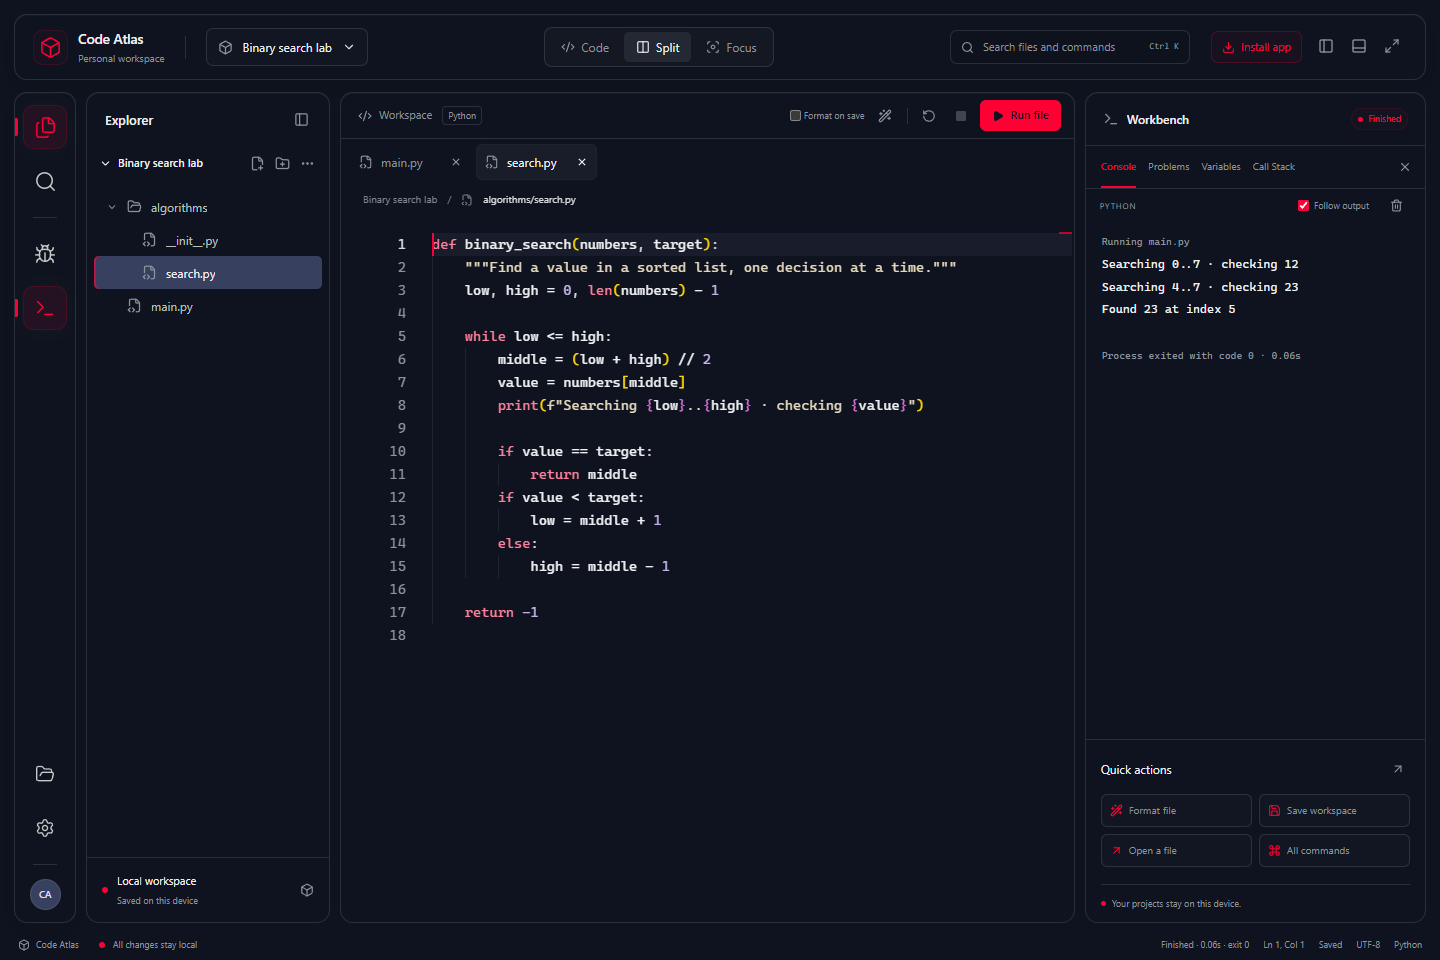
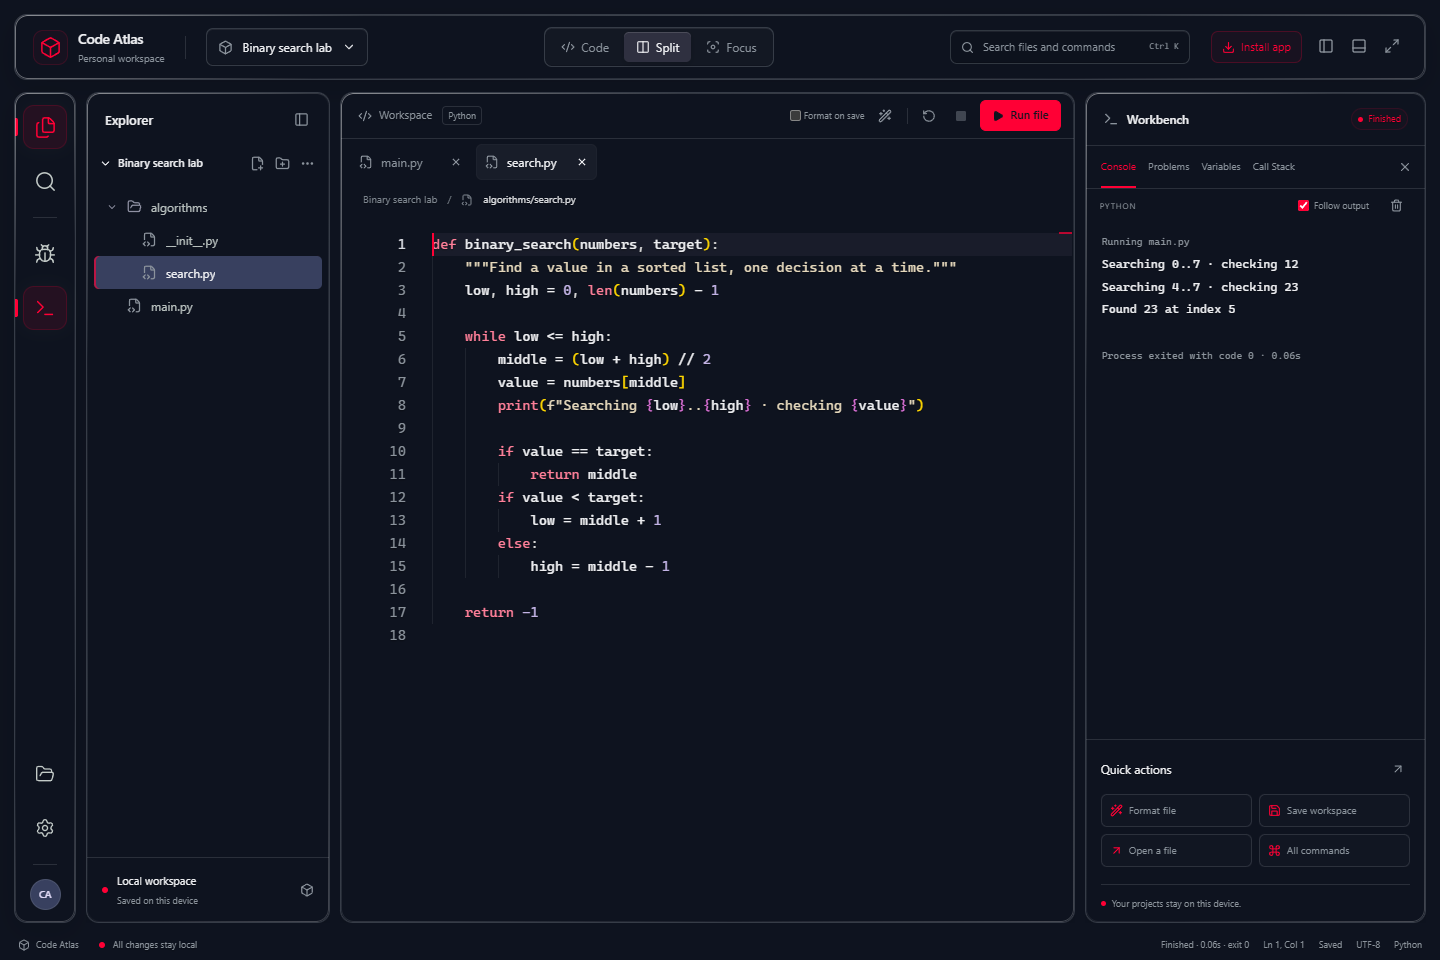
feat(glass): add native glass appearance and desktop shortcut

diff --git a/src/features/desktop/liquid-glass.css b/src/features/desktop/liquid-glass.css
@@ -1,0 +1,141 @@
+/* Reflections belong to the rim; background alpha remains controlled by the slider. */
+:root[data-theme='light'] {
+  color-scheme: light;
+}
+:root[data-glass='true'] :is(.titlebar, .activitybar, .sidebar, .editor-card, .output-card) {
+  position: relative;
+  border-color: #8b939c52;
+  box-shadow:
+    inset 0 1px 0 #ffffff20,
+    inset 0 -1px 0 #ffffff08,
+    0 8px 28px rgb(0 0 0 / calc(var(--workspace-opacity) * 0.12));
+}
+:root[data-glass='true']
+  :is(.titlebar, .activitybar, .sidebar, .editor-card, .output-card)::before {
+  content: '';
+  position: absolute;
+  inset: 0;
+  padding: 1px;
+  border-radius: inherit;
+  pointer-events: none;
+  z-index: 2;
+  background: linear-gradient(
+    130deg,
+    #ffffff73 0%,
+    #ffffff08 24%,
+    #8b939c38 53%,
+    #ffffff05 76%,
+    #ffffff38 100%
+  );
+  mask:
+    linear-gradient(#fff 0 0) content-box,
+    linear-gradient(#fff 0 0);
+  mask-composite: exclude;
+}
+:root[data-glass='true'] :is(.titlebar, .activitybar) {
+  backdrop-filter: blur(16px) saturate(1.15);
+}
+:root[data-glass='true'] :is(.workspace-title, .layout-switch, .command-trigger) {
+  border-color: #8b939c4a;
+  box-shadow:
+    inset 0 1px 0 #ffffff12,
+    inset 0 -1px 0 #00000020;
+}
+:root[data-glass='true'] .layout-switch button[aria-pressed='true'] {
+  background: #59546c66;
+  box-shadow:
+    inset 0 1px 0 #ffffff22,
+    0 2px 7px #00000024;
+}
+:root[data-glass='true'] .workspace {
+  text-shadow: 0 1px 2px #00000070;
+}
+:root[data-theme='light'][data-glass='true'] .workspace {
+  text-shadow: none;
+}
+:root[data-desktop='true'] .settings-dialog::backdrop {
+  background: transparent;
+  backdrop-filter: none;
+}
+.glass-setting {
+  display: flex;
+  align-items: center;
+  gap: 16px;
+  padding: 17px 0;
+  border-bottom: 1px solid var(--border);
+  cursor: pointer;
+  position: relative;
+}
+.glass-setting-copy {
+  flex: 1;
+}
+.glass-setting strong {
+  display: flex;
+  align-items: center;
+  gap: 7px;
+  font-size: 12px;
+  font-weight: 600;
+}
+.glass-setting strong svg {
+  color: var(--muted);
+}
+.glass-setting small {
+  display: block;
+  color: var(--muted);
+  font-size: 10px;
+  line-height: 1.7;
+  margin-top: 5px;
+  max-width: 320px;
+}
+.glass-setting input {
+  position: absolute;
+  right: 0;
+  width: 44px;
+  height: 32px;
+  margin: 0;
+  opacity: 0;
+  cursor: pointer;
+}
+.glass-switch-track {
+  width: 38px;
+  height: 22px;
+  padding: 3px;
+  border-radius: 20px;
+  background: var(--raised);
+  border: 1px solid var(--border);
+  pointer-events: none;
+}
+.glass-switch-track > span {
+  display: block;
+  width: 14px;
+  height: 14px;
+  border-radius: 50%;
+  background: var(--text);
+  transition: transform 160ms ease;
+}
+.glass-setting input:checked + .glass-switch-track {
+  background: var(--accent);
+  border-color: var(--accent);
+}
+.glass-setting input:checked + .glass-switch-track > span {
+  transform: translateX(16px);
+  background: var(--on-accent);
+}
+.glass-setting input:focus-visible + .glass-switch-track {
+  outline: 2px solid var(--text);
+  outline-offset: 3px;
+}
+@media (prefers-reduced-motion: reduce) {
+  .glass-switch-track > span {
+    transition: none;
+  }
+}
+@media (prefers-reduced-transparency: reduce) {
+  :root[data-glass='true'] :is(.titlebar, .activitybar) {
+    backdrop-filter: none;
+  }
+  :root[data-glass='true']
+    :is(.titlebar, .activitybar, .sidebar, .editor-card, .output-card)::before {
+    background: none;
+  }
+}

diff --git a/src/features/settings/SettingsDialog.tsx b/src/features/settings/SettingsDialog.tsx
@@ -1,5 +1,5 @@
 import { useEffect, useRef } from 'react';
-import { X, SlidersHorizontal } from 'lucide-react';
+import { X, SlidersHorizontal, Sparkles } from 'lucide-react';
 import { useSettings } from './store';
 import { useUI } from '../../shared/ui-store';
 import { IconButton } from '../../shared/IconButton';
@@ -112,6 +112,26 @@ export function SettingsDialog() {
             : 'To see your desktop through the background, open the Code Atlas desktop app. Browser windows only change their in-page backgrounds.'}
         </p>
       </div>
+      <label className="glass-setting" htmlFor="glass-effect">
+        <span className="glass-setting-copy">
+          <strong id="glass-effect-label">
+            <Sparkles size={15} />
+            Liquid glass
+          </strong>
+          <small>Reflective edges and softer panels. Lower transparency for more contrast.</small>
+        </span>
+        <input
+          id="glass-effect"
+          type="checkbox"
+          role="switch"
+          aria-labelledby="glass-effect-label"
+          checked={settings.glassEffect}
+          onChange={(event) => settings.setSetting('glassEffect', event.target.checked)}
+        />
+        <span className="glass-switch-track" aria-hidden="true">
+          <span />
+        </span>
+      </label>
       {(['wordWrap', 'minimap', 'formatOnSave'] as const).map((key) => (
         <label className="setting-toggle" key={key}>
           <span>

diff --git a/e2e/workspace.spec.ts b/e2e/workspace.spec.ts
@@ -34,6 +34,10 @@ test('uses flat dark surfaces and persists background-only transparency from 0 t
   await expect(page.locator('.editor-card')).toHaveCSS('background-image', 'none');
   await page.getByRole('button', { name: 'Settings (Ctrl+,)', exact: true }).click();
   const slider = page.getByRole('slider', { name: 'Background transparency', exact: true });
+  const glass = page.getByRole('switch', { name: 'Liquid glass', exact: true });
+  await expect(glass).toBeChecked();
+  await glass.uncheck();
+  await expect(page.locator('html')).toHaveAttribute('data-glass', 'false');
   await expect(slider).toHaveValue('0');
   await expect(page.locator('.workspace')).toHaveCSS('background-color', 'rgb(14, 19, 31)');
   await slider.press('End');
@@ -56,6 +60,8 @@ test('uses flat dark surfaces and persists background-only transparency from 0 t
   await expect(
     page.getByRole('slider', { name: 'Background transparency', exact: true }),
   ).toHaveValue('1');
+  await expect(page.getByRole('switch', { name: 'Liquid glass', exact: true })).not.toBeChecked();
+  await page.getByRole('switch', { name: 'Liquid glass', exact: true }).check();
   await page.getByRole('slider', { name: 'Background transparency', exact: true }).press('Home');
   await page.getByRole('button', { name: 'Done', exact: true }).click();
   await page.getByRole('button', { name: 'Run file', exact: true }).click();

diff --git a/src/features/settings/model.test.ts b/src/features/settings/model.test.ts
@@ -8,7 +8,13 @@ it('preserves transparency endpoints and rejects invalid persisted values', () =
     expect(parseSettings({ backgroundTransparency: value }).backgroundTransparency).toBe(0);
 });
 it('round-trips valid settings', () => {
-  const settings = { ...defaultSettings, fontSize: 18, theme: 'light', wordWrap: true };
+  const settings = {
+    ...defaultSettings,
+    fontSize: 18,
+    theme: 'light',
+    wordWrap: true,
+    glassEffect: false,
+  };
   expect(parseSettings(JSON.parse(JSON.stringify(settings)))).toEqual(settings);
 });
 it('rejects invalid persisted values', () => {
@@ -19,6 +25,7 @@ it('rejects invalid persisted values', () => {
       autosaveDelay: NaN,
       theme: 'pink',
       minimap: 'true',
+      glassEffect: 'false',
     }),
   ).toEqual(defaultSettings);
   expect(parseSettings(null)).toEqual(defaultSettings);

diff --git a/src/features/settings/model.ts b/src/features/settings/model.ts
@@ -1,5 +1,6 @@
 export interface Settings {
   backgroundTransparency: number;
+  glassEffect: boolean;
   fontSize: number;
   tabSize: number;
   theme: 'dark' | 'light';
@@ -10,6 +11,7 @@ export interface Settings {
 }
 export const defaultSettings: Settings = {
   backgroundTransparency: 0,
+  glassEffect: true,
   fontSize: 14,
   tabSize: 4,
   theme: 'dark',
@@ -34,6 +36,8 @@ export function parseSettings(input: unknown): Settings {
       : defaultSettings[key];
   return {
     backgroundTransparency: number('backgroundTransparency', 0, 100),
+    glassEffect:
+      typeof value.glassEffect === 'boolean' ? value.glassEffect : defaultSettings.glassEffect,
     fontSize: number('fontSize', 10, 32),
     tabSize: number('tabSize', 1, 8),
     autosaveDelay: number('autosaveDelay', 100, 10000),

diff --git a/src/App.tsx b/src/App.tsx
@@ -34,6 +34,16 @@ export function App() {
   const cursor = useCursor();
   const theme = useSettings((s) => s.theme);
   const transparency = useSettings((s) => s.backgroundTransparency);
+  const glass = useSettings((s) => s.glassEffect);
+  useEffect(() => {
+    document.documentElement.dataset.glass = String(glass);
+    const reduced = window.matchMedia('(prefers-reduced-transparency: reduce)');
+    const sync = () =>
+      window.codeAtlasDesktop?.setAppearance(glass && !reduced.matches, transparency, theme);
+    sync();
+    reduced.addEventListener('change', sync);
+    return () => reduced.removeEventListener('change', sync);
+  }, [glass, transparency, theme]);
   useEffect(() => {
     document.documentElement.style.setProperty(
       '--workspace-opacity',

diff --git a/src/desktop.d.ts b/src/desktop.d.ts
@@ -1,6 +1,8 @@
 type DesktopResizeEdge = 'n' | 's' | 'e' | 'w' | 'ne' | 'nw' | 'se' | 'sw';
 interface CodeAtlasDesktop {
   readonly platform: string;
+  readonly nativeGlass: boolean;
+  setAppearance: (glass: boolean, transparency: number, theme: 'dark' | 'light') => void;
   minimize: () => void;
   toggleExpand: () => void;
   close: () => void;

diff --git a/src/features/settings/store.ts b/src/features/settings/store.ts
@@ -15,7 +15,7 @@ export const useSettings = create<SettingsState>()(
     }),
     {
       name: 'atlas-settings',
-      version: 2,
+      version: 3,
       migrate: (value) => parseSettings(value),
       merge: (persisted, current) => ({ ...current, ...parseSettings(persisted) }),
     },

diff --git a/src/features/desktop/DesktopChrome.tsx b/src/features/desktop/DesktopChrome.tsx
@@ -4,6 +4,7 @@ import { IconButton } from '../../shared/IconButton';
 import { persistCurrent } from '../projects/persistence';
 import { useUI } from '../../shared/ui-store';
 import './desktop.css';
+import './liquid-glass.css';
 
 export function useDesktopLifecycle() {
   useEffect(() => {
